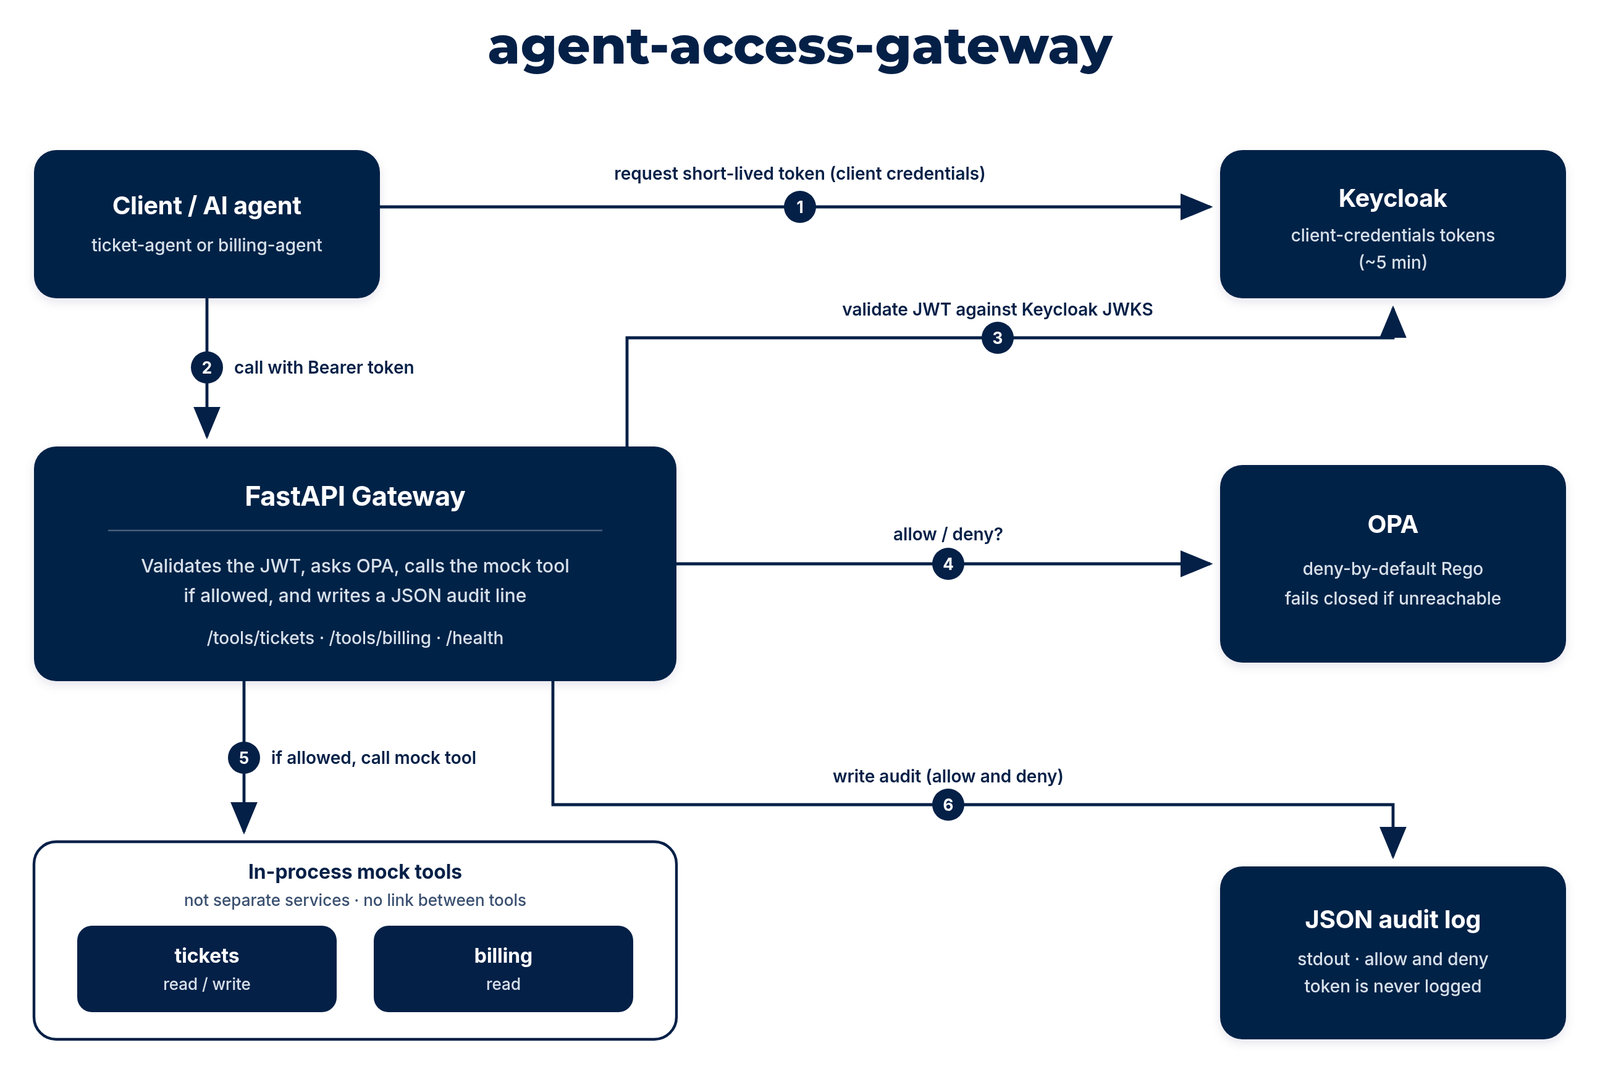
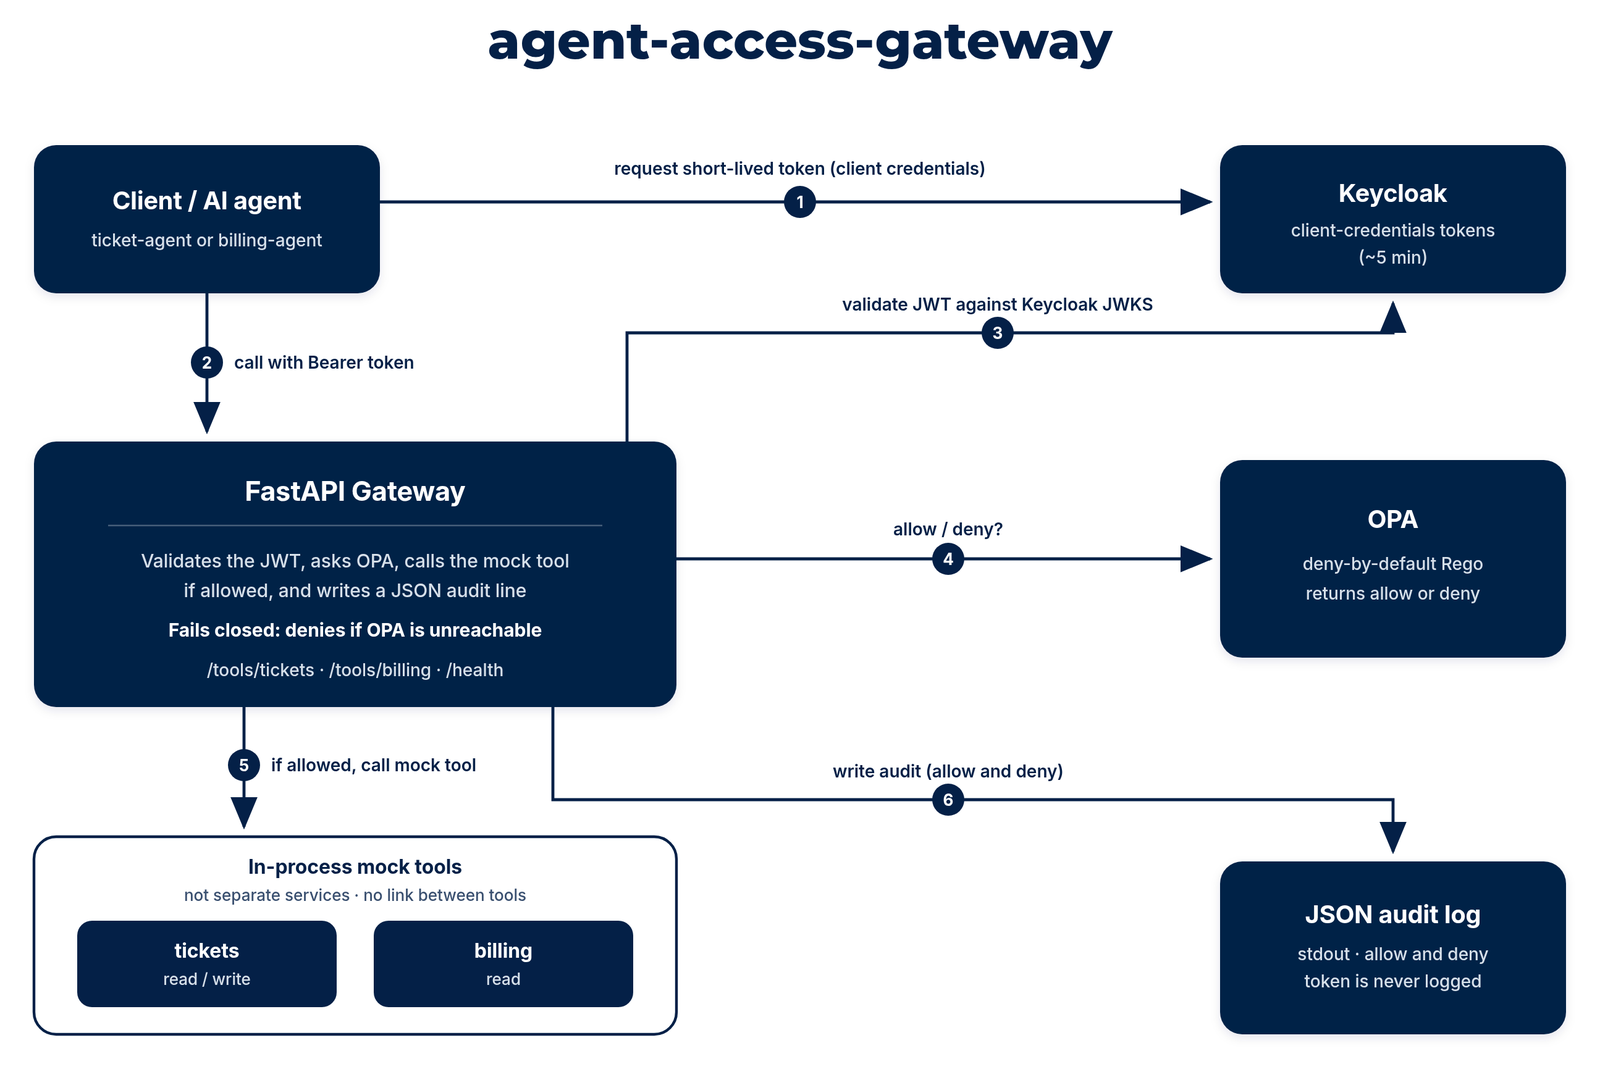
Attribute fail-closed to the gateway; add CI badge
- Diagram: OPA is deny-by-default Rego returning allow or deny; the
  gateway fails closed if OPA is unreachable.
- Validate-only wording in Terraform and DESIGN.
- CI status badge in the README.

diff --git a/README.md b/README.md
@@ -1,5 +1,7 @@
 # agent-access-gateway
 
+[![ci](https://github.com/dardan-hoxhaj/agent-access-gateway/actions/workflows/ci.yml/badge.svg?branch=main)](https://github.com/dardan-hoxhaj/agent-access-gateway/actions/workflows/ci.yml?query=branch%3Amain)
+
 Local identity and access gateway for AI agents. Each agent is a Keycloak client using the OAuth2 client-credentials grant. The gateway validates the short-lived JWT, asks OPA for a per-agent / per-tool / per-action decision, and writes a structured audit log. Downstream tools are mocks.
 
 ## What this does

diff --git a/docs/DESIGN.md b/docs/DESIGN.md
@@ -26,7 +26,7 @@ Every allow and deny writes one JSON line to stdout. The token and any Authoriza
 
 ## Terraform
 
-The module creates an ECR repository and a GitHub OIDC role that can push to it. It is written so `terraform validate` passes. It is not applied. Applying it would create real AWS resources.
+The module creates an ECR repository and a GitHub OIDC role that can push to it. It is validate/plan only in CI; not applied. Applying it would create real AWS resources.
 
 ## What was cut
 
